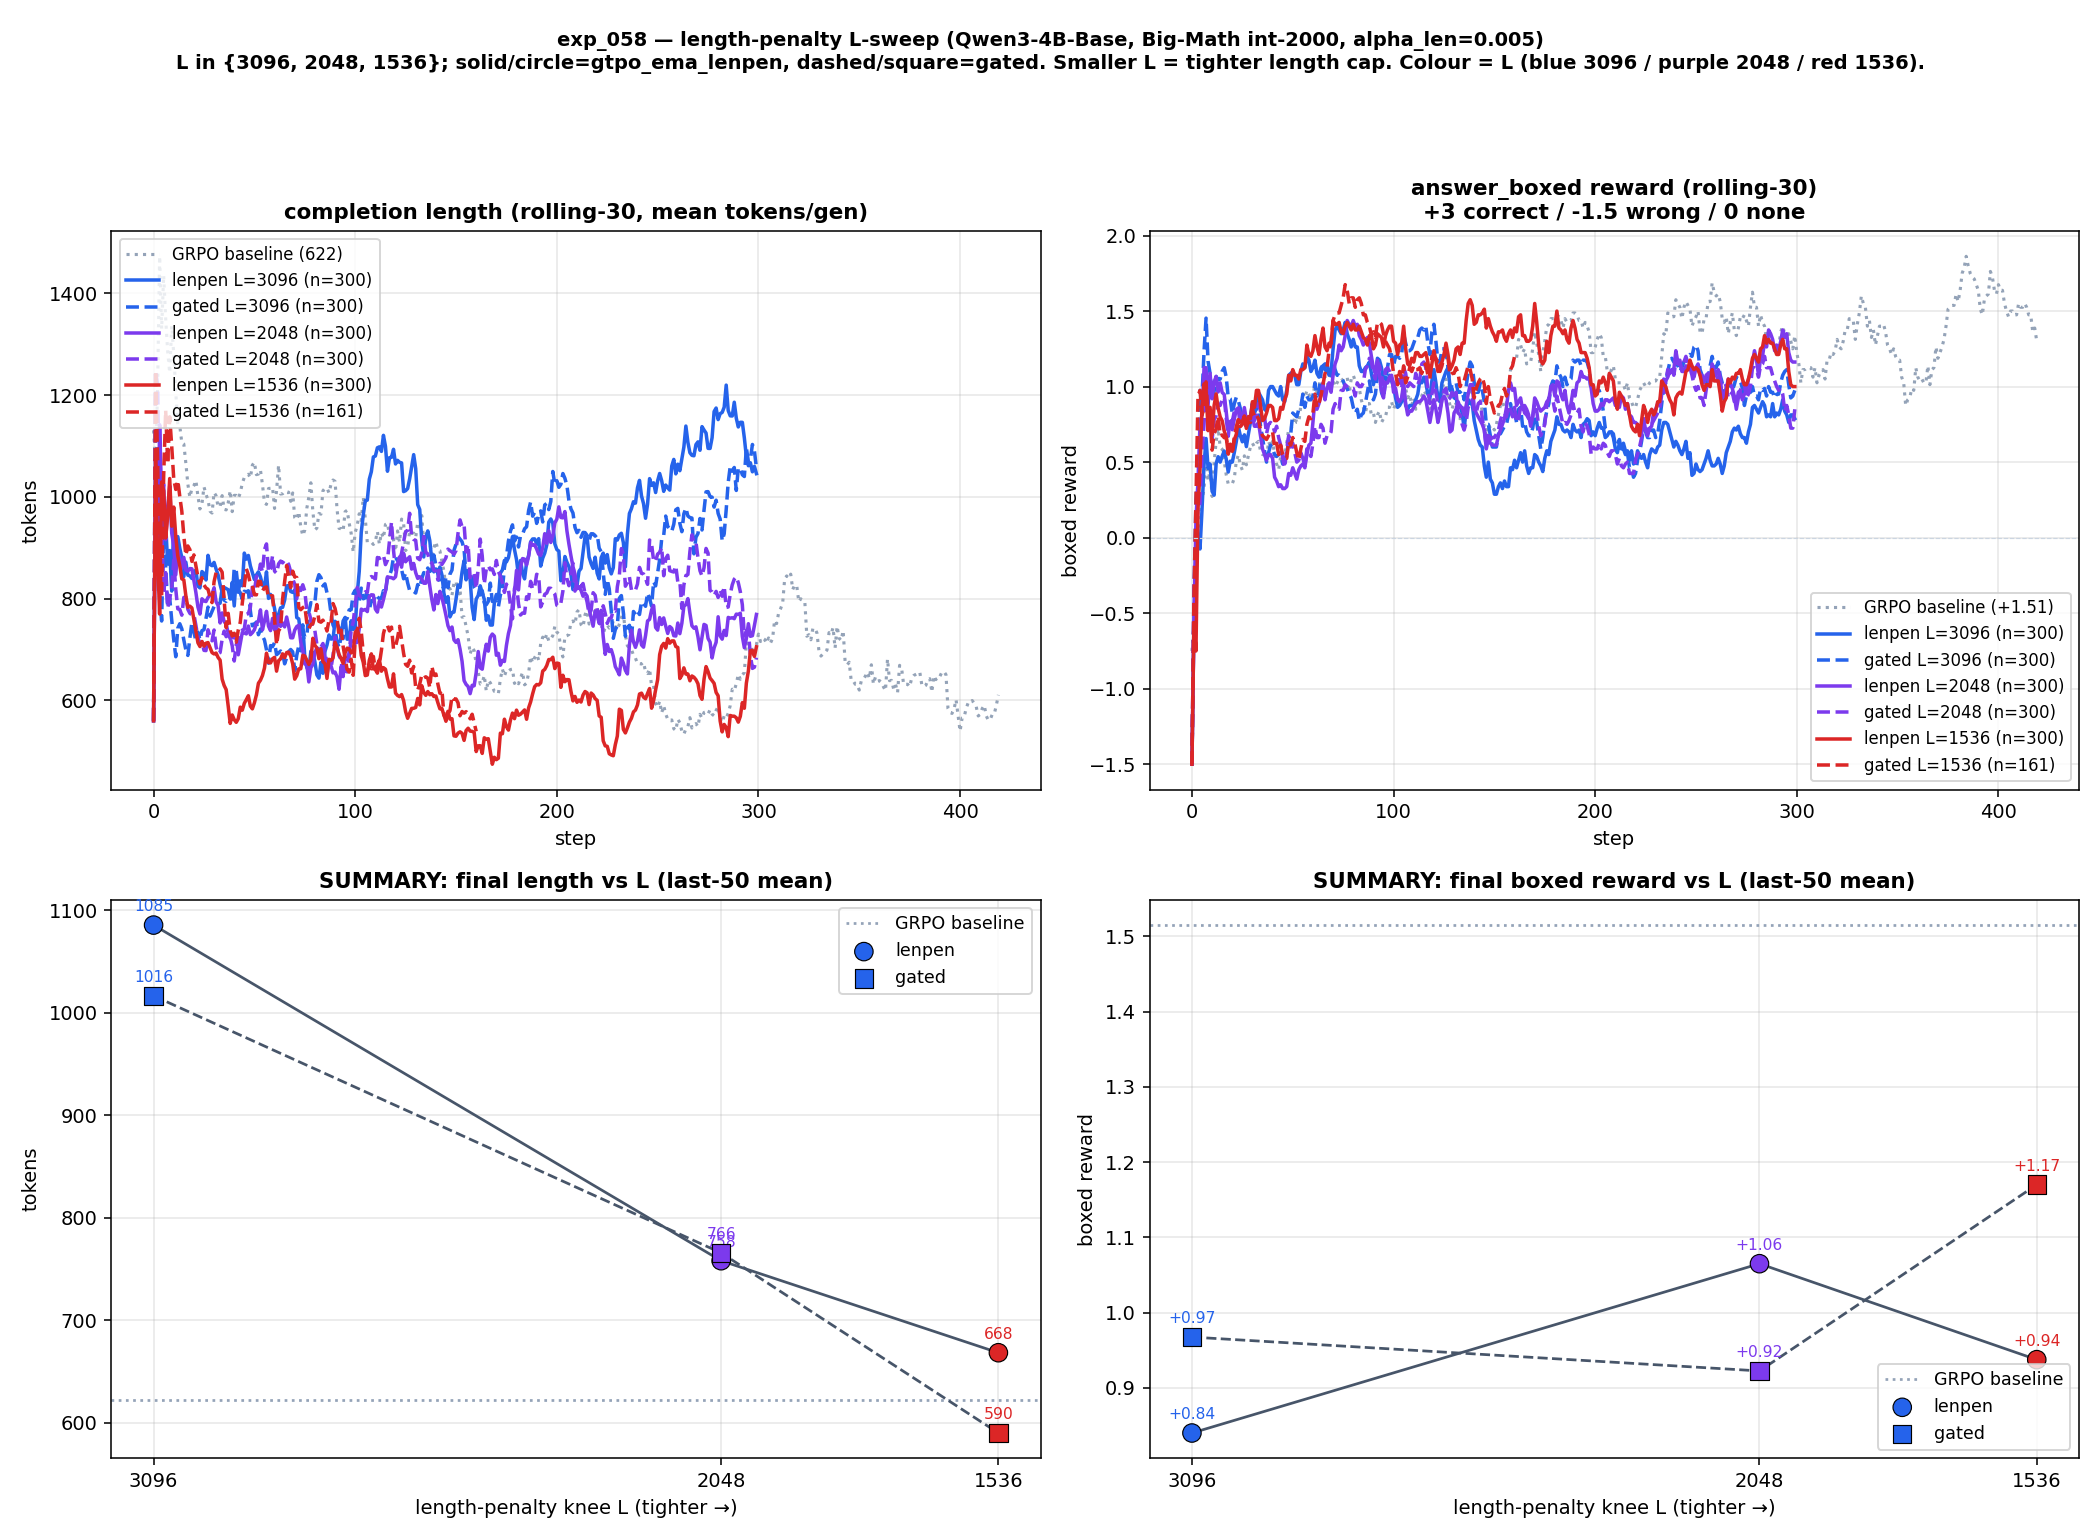
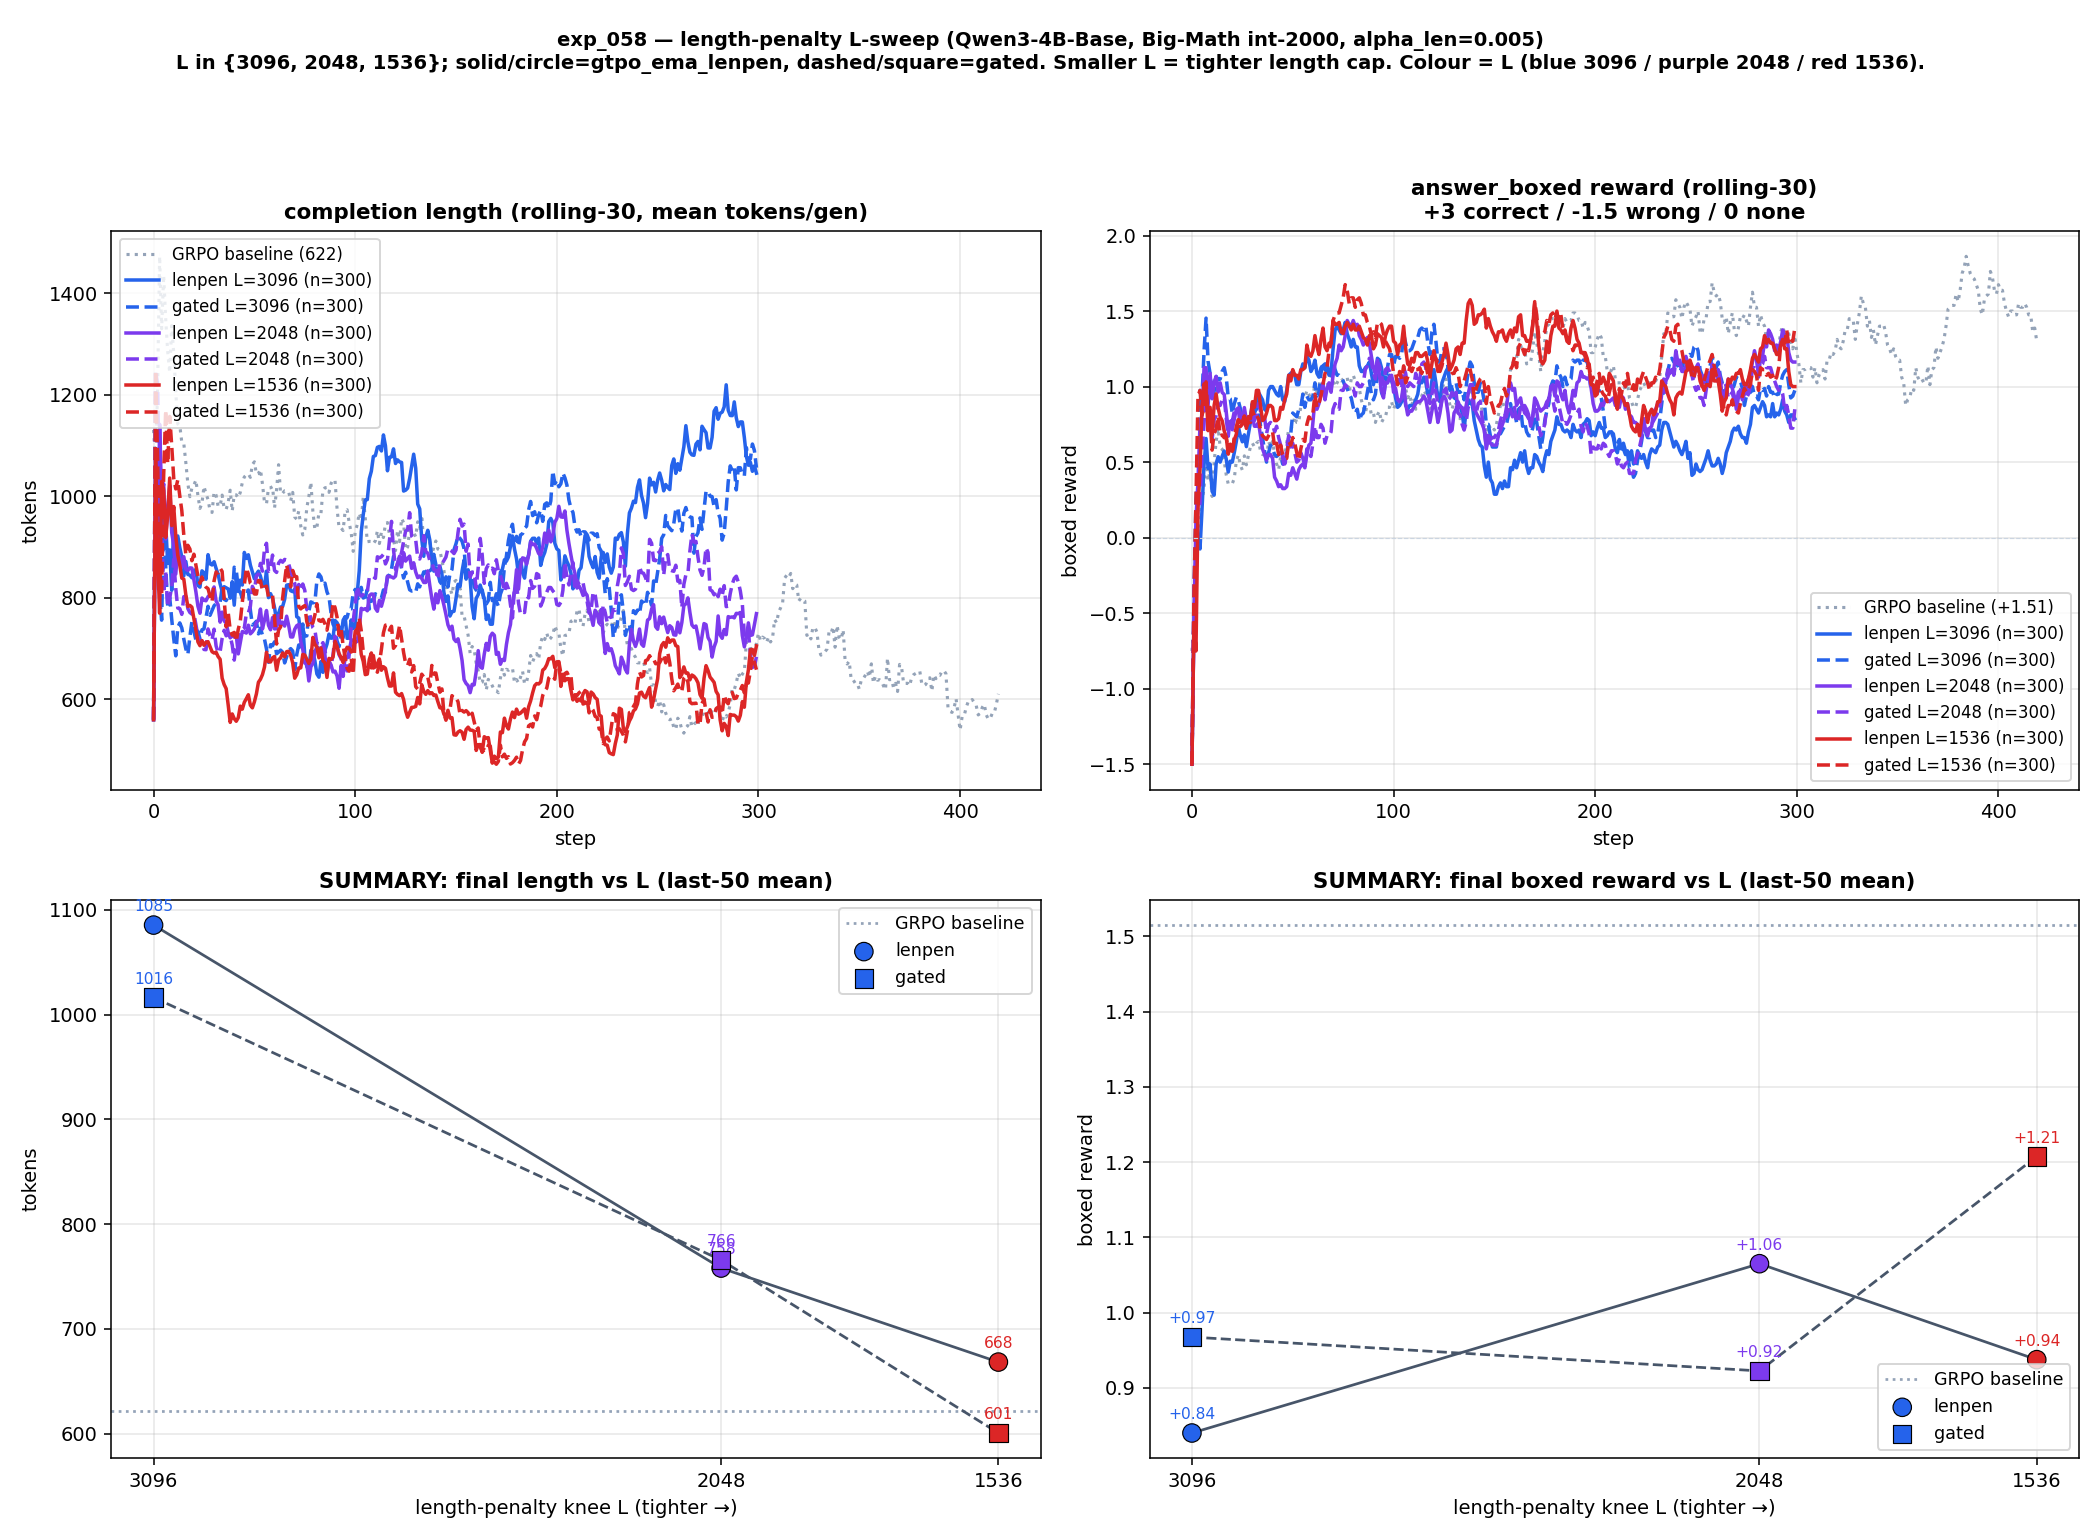
exp_058: L-sweep COMPLETE (all 6 runs, 300 steps) — final plot + README table
L-sweep over the length-penalty knee L in {3096,2048,1536} x {lenpen,gated}.
Final (last-50 mean):
  lenpen 3096/2048/1536: len 1085/758/668  boxed +0.84/+1.06/+0.94 (mid optimum)
  gated  3096/2048/1536: len 1016/766/601  boxed +0.97/+0.92/+1.21 (monotone up)
Length falls monotonically with tighter L. lenpen peaks mid (L=2048); gated
improves monotonically (gate spares hard prompts) and wins at L=1536 — shortest
(601 ~= GRPO 622) AND highest boxed (+1.21, closest to GRPO +1.51).

diff --git a/experiments/exp_058_qwen3base_bigmath_int2k_4way/LENGTH_PENALTY_METHODS.md b/experiments/exp_058_qwen3base_bigmath_int2k_4way/LENGTH_PENALTY_METHODS.md
@@ -81,3 +81,37 @@ figures/exp058_lenpen_fix.png          length + boxed vs bare collapse
 | gtpo_ema_lenpen_gated | 584 | +3.41 | **+1.24** |
 
 **gated length-penalty recovers gtpo_ema_flipped from the collapse to near-GRPO quality** (boxed +1.24 vs grpo +1.51, length 584 vs 622), while the bare method inflates length (2121) and stays low (boxed +0.38). lenpen controls length too but is weaker on quality (+0.72).
+
+## L-sweep (knee L in {3096, 2048, 1536}, alpha_len=0.005, 300 steps each)
+
+Both methods re-run at three knee values to map the length↔quality trade-off.
+L is env-overridable (`LENGTH_L`); `run_058_lenpen_Lsweep.sh` runs all six
+(L × method) sequentially; `plot_Lsweep.py` builds the comparison (top row =
+time-series, bottom row = final-metric-vs-L summary).
+
+Plot: `figures/exp058_lenpen_Lsweep.png`. Reference: GRPO baseline len 622, boxed +1.51.
+
+| method | L | L50 len | L50 boxed |
+|---|---|---|---|
+| gtpo_ema_lenpen       | 3096 | 1085 | +0.84 |
+| gtpo_ema_lenpen_gated | 3096 | 1016 | +0.97 |
+| gtpo_ema_lenpen       | 2048 |  758 | **+1.06** |
+| gtpo_ema_lenpen_gated | 2048 |  766 | +0.92 |
+| gtpo_ema_lenpen       | 1536 |  668 | +0.94 |
+| **gtpo_ema_lenpen_gated** | **1536** | **601** | **+1.21** |
+
+**Findings**
+- **Length falls monotonically with tighter L** for both methods (lenpen
+  1085→758→668; gated 1016→766→601). L=3096 is too weak a knee — it barely
+  bites the typical 800–1100-tok answers, so quality sits well below GRPO.
+- **The two methods respond oppositely to tightening:**
+  - **lenpen** has a *mid optimum* — boxed peaks at L=2048 (+1.06) and dips again
+    at L=1536 (+0.94): over-tightening the un-gated penalty clips legitimately
+    long reasoning on hard problems.
+  - **gated** *improves monotonically* with tighter L — best at L=1536 (+1.21,
+    the sweep maximum). The low-temperature gate spares the genuinely hard
+    prompts from the penalty, so tightening L only bites the easy/short-solvable
+    ones; no exploration is lost where it matters.
+- **Best config: gtpo_ema_lenpen_gated @ L=1536** — shortest of all six (601 ≈
+  GRPO 622) AND highest boxed (+1.21, closest to GRPO +1.51). The gate is what
+  lets a tight knee help rather than hurt.
